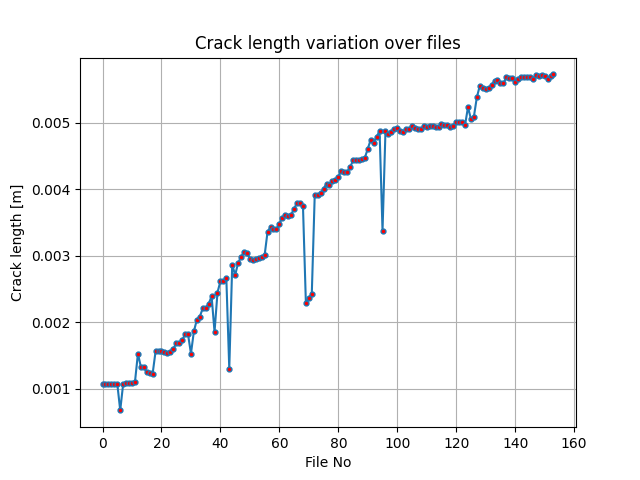
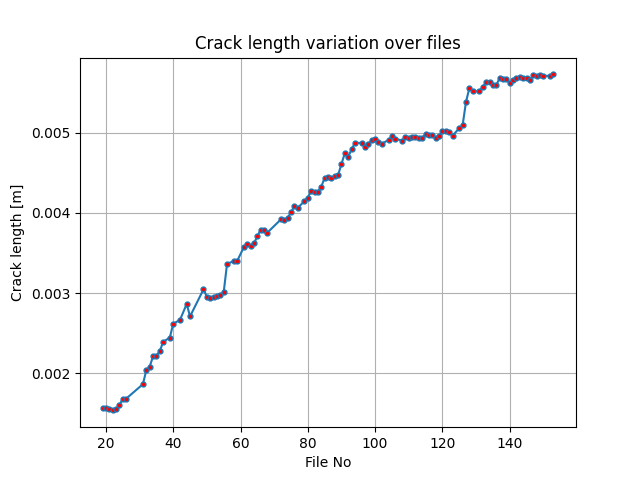
Reduced the data with errors

diff --git a/image_processing.py b/image_processing.py
@@ -255,6 +255,7 @@ for j in files:
 # put all files that failed in at least one thing together
 all_files_summoned = np.array(no_success_file_no + match_fail_file_no + wrong_start_file_no + fail1_fail_no + fail2_fail_no)
 unique_list = np.unique(all_files_summoned, return_counts=True)
+file_indices = unique_list[0].tolist()
 index = 0
 all_files_matched = []
 for i in unique_list[0]:
@@ -277,9 +278,15 @@ print("First method's result is not in the neighborhood of the contour with the 
 print('First method failure files: ', fail1_fail_no)
 print('Second method failure files: ', fail2_fail_no)
 
-crack_lengths_np = np.array(crack_lengths) * one_pixel_m
+crack_lengths = (np.array(crack_lengths) * one_pixel_m).tolist()
+crack_lengths_reduced = []
+files_list_reduced = []
+for i in files_list:
+    if not (i in file_indices):
+        files_list_reduced.append(i)
+        crack_lengths_reduced.append(crack_lengths[i])
 plt.figure()
-plt.plot(files_list, crack_lengths_np, marker = '.', markerfacecolor = 'red', markersize = 7)
+plt.plot(files_list_reduced, crack_lengths_reduced, marker = '.', markerfacecolor = 'red', markersize = 7)
 plt.xlabel('File No')
 plt.ylabel('Crack length [m]')
 plt.title('Crack length variation over files')
